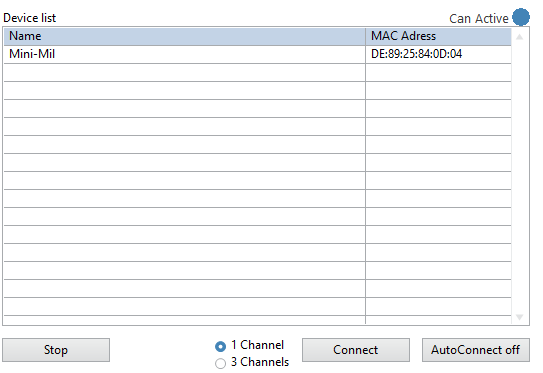
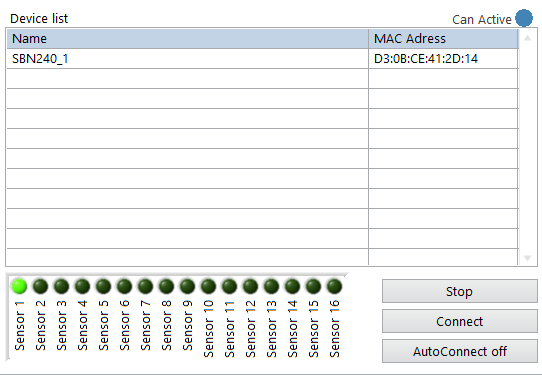
Adapting the english version to 5.3.0.4

Changed region(s): [[0.0, 0.0, 1.0, 1.0]]

diff --git a/C-RIO_Dashboard_en.md b/C-RIO_Dashboard_en.md
@@ -4,10 +4,10 @@
 User manual for the ICOtronic Dashboard.
 
 # Version
-This version of the documentation was written for the Dashboard version v5.1.1.9.
+This version of the documentation was written for the Dashboard version v5.3.0.4.
 For older documentation look at the following link:
 
-[older Version](https://github.com/MyTooliT/Dashboard/blob/version_4_0_1_4/C-RIO_Dashboard_en.md)
+[older Version](https://github.com/MyTooliT/Dashboard/blob/7f87fe9a3be55a1fabbaa3e65d0878818b1d4ac3/C-RIO_Dashboard_en.md)
 
 # ICOtronic System components 		  			
 
@@ -59,19 +59,31 @@ The system tab consists of 4 quarters. The lower right corner containing informa
 ### Connection sub part
 
 In the upper left corner are the functions for the holder connection. On the top is a drop-down menu to choose the wanted connection type. With the "->" button it can be activated. On the right side of the "->" button is the momentary active connection type. The right most button "AutoConnect Off/On" can be used to deactivate and activate the need for putting a TRUE to the digital connection pin for connecting in the "Static DI" mode. If it is set to "AutoConnect On" the system will connect to a holder without a TRUE on the connection pin. **Attention: The holder ID pins have to be set within the time frame of 10ms starting with the first TRUE of a holder pin!!!**
-The left list contains all the momentary defined "Static DI" sensor&rule configurations. Below this list you can see the momentary per Digital INS chosen ID. With the "Delete Connect ID" button you can delete the momentary highlighted ID. In the right list all STHs are listed that are found by the system and are ready to connect. You can see the name and the Bluetooth address of the STHs. The "STOP" , "CONNECT" buttons and the radio button with 1 & 3 Channels labels are used to connect/disconnect the system in the "Dashboard" connection mode.
+The left list contains all the momentary defined "Static DI" sensor&rule configurations. Below this list you can see the momentary per Digital INS chosen ID.
+
+![channel_numbers](assets/Connect_request_id.png)
+
+With the "Delete Connect ID" button you can delete the momentary highlighted ID. In the right list all STHs are listed that are found by the system and are ready to connect. You can see the name and the Bluetooth address of the STHs. The "STOP" , "CONNECT" buttons are used to connect/disconnect the system in the "Dashboard" connection mode. The multiple green radio-buttons are used to select the chosen Sensors if the system is used in the "Dashboard" connection mode.
 
 ### Rule & Sensor config sub part
 
 2 tabs can be found on the upper right side. These are the "Rule Engine configs" and "Sensor configs". In these 2 tabs you can see the momentary loaded configurations for "Static DI" on the system. Additionally in the "Sensor configs" tab you can highlight a holder by clicking on it and at the bottom below you can choose a rule from the drop-down menu and choose a connection ID you want to set. When pressing the "Load Sensor" button you can load the sensor&rule config into the list of loaded connection options on the top left. Beside the 2 tabs you can see the OPC server URL which is needed if you want to connect/control the system via OPCUA.
 
-### Logging sub part
+### Logging & Settings sub part
 
-On the lower left side you can find the "Logging" tab. This tab is used for recording a process and shows the status of the digital inputs. If the "AutoRecord Off/On" button is clicked, it will start the recording when connected to a holder. If not it can be started with the "Start Record" button. When the system is recording this button will become a button to stop the recording. The Identifier "Storage mounted" shows blue if a USB-device is connected. Below it shows the "Recording" identifier which is blue if a record is beeing made at the moment. On the right side you can see the size of the momentary recording and the free space of the mounted USB. 
+On the lower left side you can find the "Logging" tab. This tab is used for recording a process and shows the status of the digital inputs. If the "Record at connect" button is clicked, it will start the recording when connected to a holder. If not it can be started with the "Start Record" button. When the system is recording this button will become a button to stop the recording. The Identifier "Storage mounted" shows blue if a USB-device is connected. Below it shows the "Recording" identifier which is red if a record is being made at the moment. Below you can see the size of the momentary recording and the free space of the mounted USB. 
 
 **Attention: the system only works with USB-devices formatted to FAT32-format!!!**
 
-The two identifier below show if the digital inputs for recording and enabling of the rule are set by the hardware. (The digital input for recording can be used to start and stop recordings outside of the dashboard). The 2 status identifier at the bottom show if the rule is allowed to change parameters and the last one shows if the system is momentary changing the overrides because of the defined rules. The last button "Autoenable Rule Off/On" can be used to let the rule always been enabled at the connection or if it will be controlled via the "Rule enabled" direct input.
+The one identifier to the right show if the digital input for recording is set by the hardware. (The digital input for recording can be used to start and stop recordings outside of the dashboard). The 3 rightmost status identifier show if the DI for the activation of the momentary used rule is set, the rule is allowed to change parameters (meaning the rule is set to active) and the last one shows if the system is momentary changing the overrides because of the defined rules.
+
+![settings](assets/settings.png)
+
+The "Settings" tab is used to reboot the system and to change the system time. On the bottom you can see the "Reboot System" button. The SPU will initialise a reboot of the system when this button is pressed. On top you can 2 text-fields. The upper one is to define the new system time and the lower one is to set the format of the time, shown on the topmost right part of the dashboard. The button "Set Time" is used to set the time given in the text-field to the system time. The button with the calendar and clock can be used to open a new window with a calendar and the clock to set the time.
+
+![clock](assets/clock.png)
+
+In this new window you can use the "Aktuelle Zeit verwenden" button to set the date and time to the momentary system time. With a press of the "OK" button will the selected time be written into the text-field.
 
 ### Connection types
 
@@ -79,10 +91,9 @@ On the left side you can choose a connection type with the drop down menu. On th
 
 ![connection_type](assets/connection_type.png)
 
-You can chose if you are using an one or 3 channel holder with the radio buttons below the list of found holders, with the exception of the "Static / DI" mode. Note that if you use the three channel option with a holder which only has one channel the other two channels will be useless signals from not connected PINs inside the holder. On the left side of the radio buttons you can see if a static connection request is set by the connected digital inputs of the SPU.
+You can chose which sensors of the chosen holder you want to use with the radio buttons below the list of found holders, with the exception of the "Static / DI" mode. Chosen sensors are green. Note that if you use more than one sensor with a holder which only has one sensor the other two channels will be useless signals from not connected PINs inside the holder. The system will connect in the 1-channel mode if only 1 sensor is selected. The system will connect in the 3-channel mode if more than 1 sensors are selected. If you select more than 3 sensors will the system only use the first 3 selected sensors. The channels are always from the lowest sensor number as channel 1 and the highest channel number as channel 3. 
 
-![channel_numbers](assets/Connect_request_id.png)
-![channel_numbers](assets/channel_numbers.png)
+![channel_numbers](assets/sensors.png)
 
 #### Dashboard / OPC UA
 
@@ -241,6 +252,18 @@ Depending on which mode is set active, different parameters can be changed. To c
 
 This parameter changes the time window for the calculation of the IFT-Value. The larger the window, the more sluggish the system reacts to changes. For example, a single spike in the process is weighted less on the IFT-Value calculation in a larger window. In “Watch” mode this parameter can be adjusted live. In all other modes, this can only be done using the "update" button as mentioned before.
 
+#### Minimum IFT Level
+
+{-} ift value level
+
+This parameter is the minimum used value for the rule. All values below this will be ignored. For example is this needed if you use the filter options and scale it to the unfiltered values. When you move quick with the tool inside the machine there could be high frequency parts in the signal and set the system to interfere. So you can use this value to get the system not interfering while it is only moving.
+
+#### Stability_Channel 		  			
+
+{-} channels
+
+If you have a three channel holder you can change the channel which is used to calculate the IFT value with this drop down menu. You can use any of the three channels or multiple channels at once. If you use a one channel holder this parameter will be ignored and the IFT value calculated with the one available channel.
+
 #### Upper threshold 		
 
 {-} upper threshold
@@ -320,11 +343,26 @@ Deadtime: 300ms
 
 ![deadtime2](assets/deadtime2.png)
 
-#### Stability_Channel 		  			
 
-{-} channels
+#### Low-Pass Filter
 
-If you have a three channel holder you can change the channel which is used to calculate the IFT value with this drop down menu. You can use any of the three channels or multiple channels at once. If you use a one channel holder this parameter will be ignored and the IFT value calculated with the one available channel.
+{Hz} cutoff frequency
+{-} active/inactive
+
+This parameter is used as low pass filter cutoff frequency when calculating the IFT values. The text-field is used to give the cutoff frequency and the circle is a button to activate the low-pass filter. The button will turn blue if the filter is set to active.
+
+#### High-Pass Filter
+
+{Hz} cutoff frequency
+{-} active/inactive
+
+This parameter is used as high-pass filter cutoff frequency when calculating the IFT values. The text-field is used to give the cutoff frequency and the circle is a button to activate the high-pass filter. The button will turn blue if the filter is set to active.
+
+#### Scale to unfiltered
+
+{-} active/inactive
+
+This circle shaped button shines blue if activated. The filtered (high-pass and low-pass filtered) signal will be set in relation to the unfiltered signal if the function is activated. Following the activation the IFT value can be at maximum a "1". **If the low-pass AND high-pass filters are deactivated the signal will always be a "1".**
 
 #### IFT value factor 		  			
 
